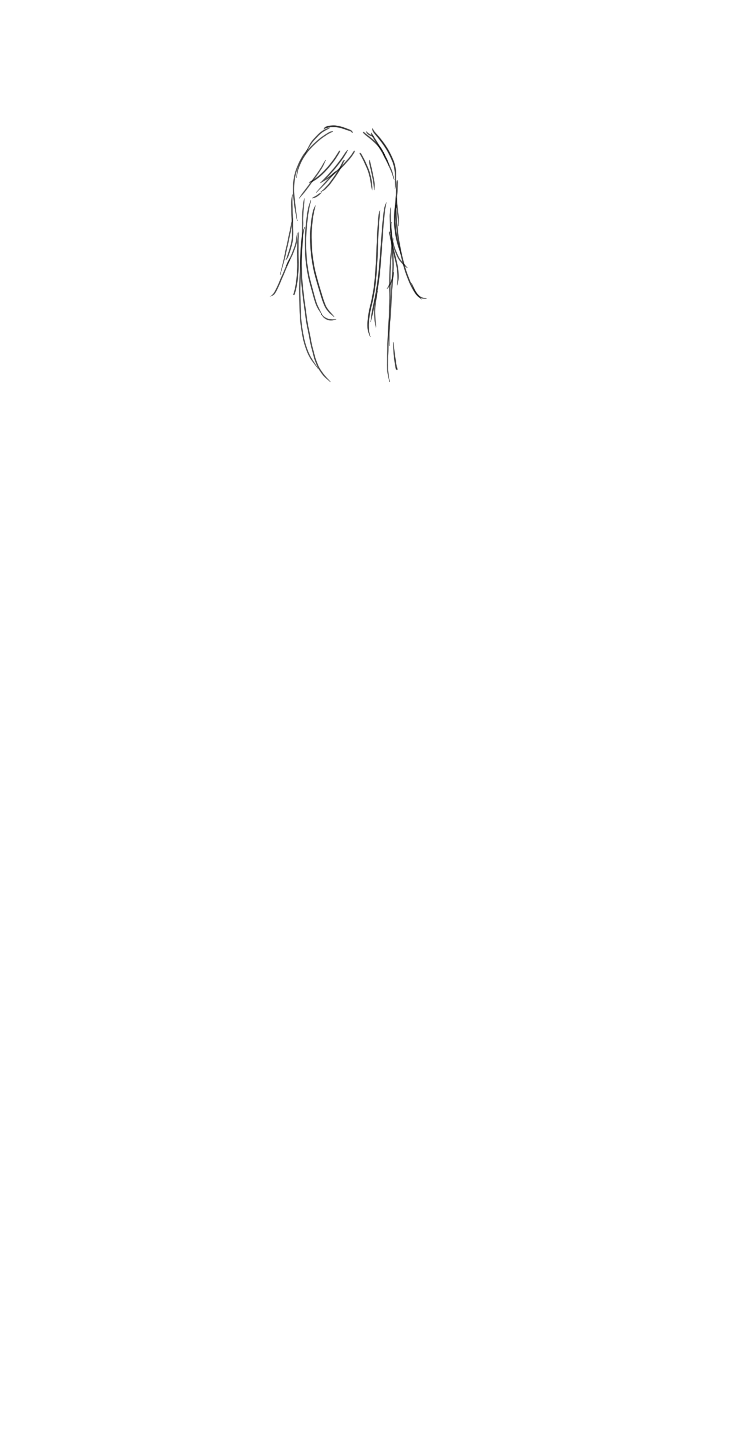
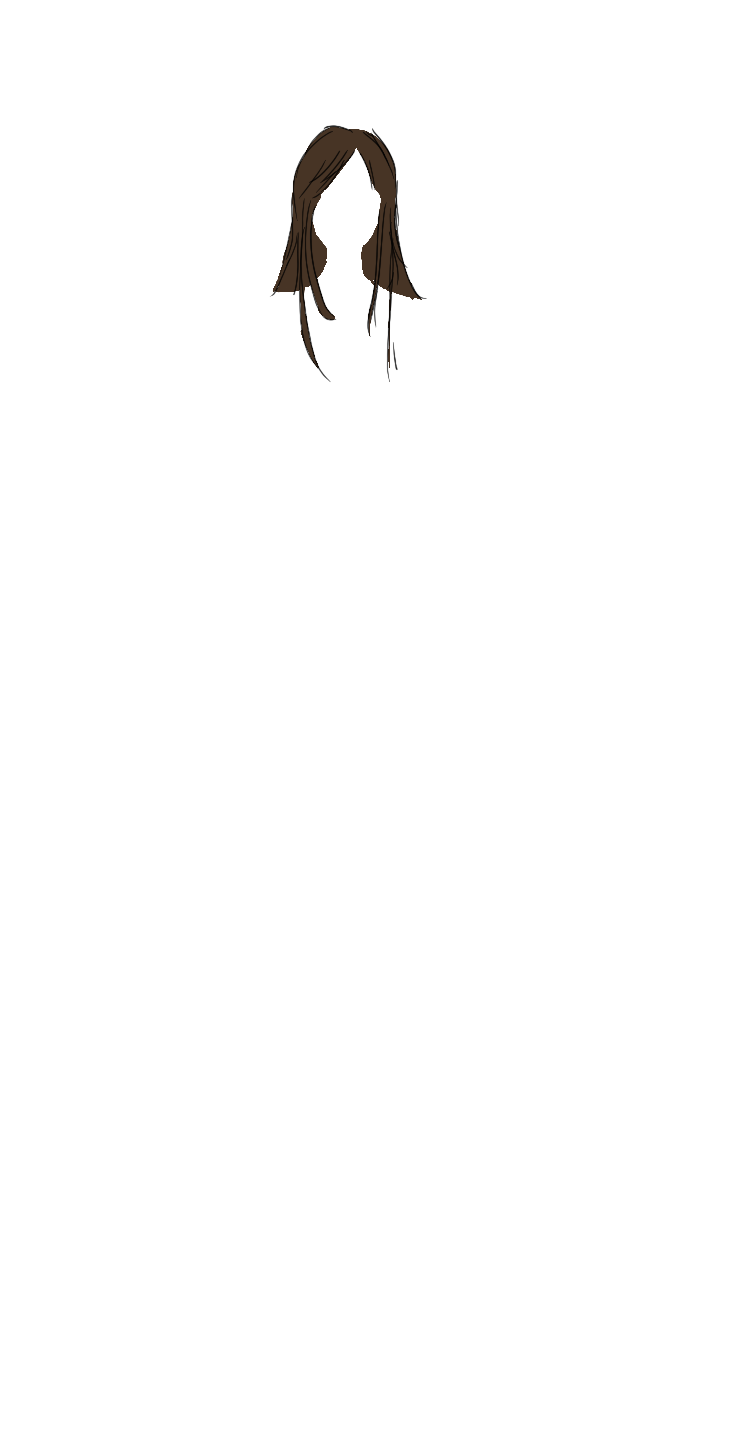
new clothes

Changed region(s): [[0.375, 0.0917, 0.5625, 0.2446]]

diff --git a/style.css b/style.css
@@ -25,7 +25,7 @@ body {
 a, 
 button, 
 .tab, 
-.clickable-item
+.clickable-item,
 .circle-button,
 a * { 
     cursor: url('media/images/pointer.cur') 2 2, pointer !important;
@@ -114,6 +114,13 @@ a * {
     display: flex;
     flex-wrap: wrap;
     width: calc(20% - 10px); /* change the percentage to alter how many per row */
+    height: auto;            
+}
+
+.grid img {
+    display: flex;
+    flex-wrap: wrap;
+    width: calc(50% - 10px); /* change the percentage to alter how many per row */
     height: auto;            
 }
 
